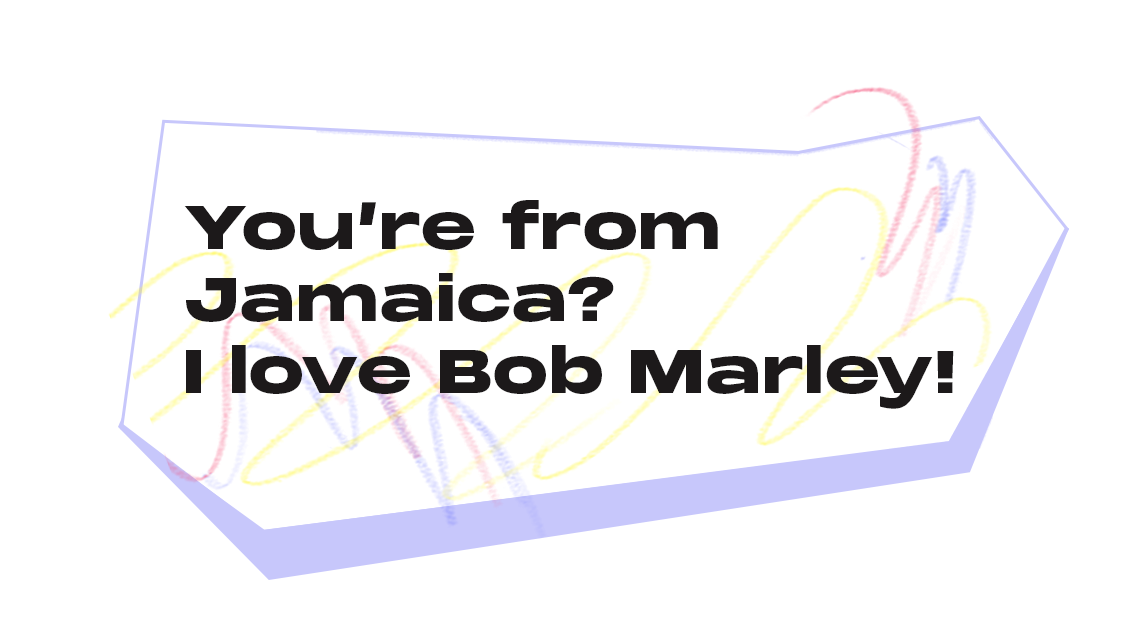
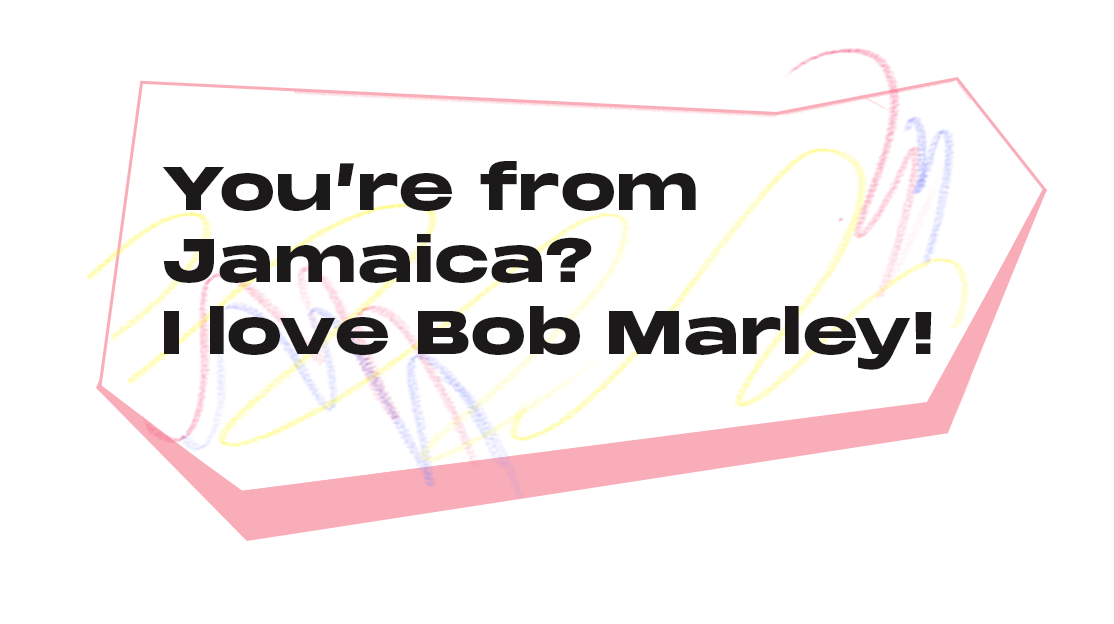
Fix colors and layout

Changed region(s): [[0.061, 0.0609, 0.9461, 0.9135], [0.702, 0.0913, 0.7325, 0.1218], [0.2747, 0.7003, 0.3052, 0.7308]]

diff --git a/src/components/home-page/examples.js b/src/components/home-page/examples.js
@@ -30,7 +30,7 @@ const Examples = () => {
 
   return (
     <div>
-      <article className="examples">
+      <article className="examples bg-pink">
         <motion.img
           className="shard ex__shard1"
           variants={variants}
@@ -119,6 +119,20 @@ const Examples = () => {
               country'.
             </span>
           </p>
+        </div>
+        <div className="divider">
+          <svg
+            className="divider-svg"
+            xmlns="http://www.w3.org/2000/svg"
+            viewBox="0 0 1440 320"
+            preserveAspectRatio="none"
+          >
+            <path
+              className="shape-fill"
+              fillOpacity="1"
+              d="M0,192L480,224L960,64L1440,224L1440,320L960,320L480,320L0,320Z"
+            ></path>
+          </svg>
         </div>
       </article>
     </div>

diff --git a/src/components/home-page/characteristics.js b/src/components/home-page/characteristics.js
@@ -11,10 +11,10 @@ import shard6 from "../../images/characteristics/shard_youareinvisible.png"
 import shard7 from "../../images/characteristics/shard_youarenotanindividual.png"
 import shard8 from "../../images/characteristics/shard_youdontbelong.png"
 
-import shard10 from "../../images/characteristics/shard_jamaica.png"
-import shard20 from "../../images/characteristics/shard_muchodiscounto.png"
+import shard20 from "../../images/characteristics/shard_muchodiscountopng.png"
 import shard30 from "../../images/characteristics/shard_professional.png"
-import shard40 from "../../images/characteristics/shard_whereareyoureallyfrom2.png"
+import shard10 from "../../images/characteristics/shard_whereareyoureallyfrom.png"
+import shard40 from "../../images/characteristics/shard_jamaica.png"
 
 const Characteristics = () => {
   return (

diff --git a/src/components/home-page/tell-us.js b/src/components/home-page/tell-us.js
@@ -17,7 +17,7 @@ const TellUs = () => {
           </h2>
           <CreatePhrase />
         </div>
-        <div className="divider bg-red">
+        <div className="divider">
           <svg
             className="divider-svg"
             xmlns="http://www.w3.org/2000/svg"
@@ -26,8 +26,8 @@ const TellUs = () => {
           >
             <path
               className="shape-fill"
-              fillOpacity="1"
-              d="M0,64L720,192L1440,32L1440,320L720,320L0,320Z"
+              fill-opacity="1"
+              d="M0,192L480,224L960,128L1440,192L1440,320L960,320L480,320L0,320Z"
             ></path>
           </svg>
         </div>

diff --git a/src/components/home-page/disarmed.js b/src/components/home-page/disarmed.js
@@ -50,7 +50,6 @@ const Disarmed = () => {
             <img src={disarm4} alt="green circle" className="shapeImage" />
           </div>
           <div className="container">
-            <img src={img} className="imgDisarmed" alt="disarmed" />
             <p>
               One principle underlying these statements is helping the aggressor
               understand she or he is not under attack for their comment.

diff --git a/src/components/home-page/forms.js b/src/components/home-page/forms.js
@@ -43,7 +43,7 @@ const Forms = () => {
             <path
               className="shape-fill"
               fill-opacity="1"
-              d="M0,96L720,32L1440,160L1440,320L720,320L0,320Z"
+              d="M0,192L480,224L960,128L1440,192L1440,320L960,320L480,320L0,320Z"
             ></path>
           </svg>
         </div>

diff --git a/src/styles/homePageStyles/tell-us-styles.css b/src/styles/homePageStyles/tell-us-styles.css
@@ -25,11 +25,6 @@
   height: 4rem;
   border: 0;
   background-color: #ffffff;
-  border-bottom-left-radius: 41px;
-  border-bottom-right-radius: 41px;
-  border-top-left-radius: 41px;
-  border-top-right-radius: 0;
-  box-shadow: 0 17px 40px 0 rgba(39, 88, 136, 0.07);
   margin: 4rem 0;
   position: relative;
   color: #131314;

diff --git a/src/styles/homePageStyles/examples-styles.css b/src/styles/homePageStyles/examples-styles.css
@@ -1,12 +1,9 @@
 /* SECTION: examples of microagressions? */
+.examples .shape-fill {
+  fill: var(--clr-primary-100);
+}
 
 .examples {
-  padding-bottom: 20%;
-  background: linear-gradient(
-    var(--clr-primary-100),
-    70%,
-    var(--clr-secondary-200) 30%
-  );
   position: relative;
 }
 .shard {

diff --git a/src/components/home-page/difference.js b/src/components/home-page/difference.js
@@ -19,7 +19,7 @@ function FadeInWhenVisible({ children }) {
       ref={ref}
       animate={controls}
       initial="hidden"
-      transition={{ duration: 2 }}
+      transition={{ duration: 1.2 }}
       variants={{
         visible: { opacity: 1, scale: 1 },
         hidden: { opacity: 0, scale: 0 },

diff --git a/src/styles/homePageStyles/disarmed-styles.css b/src/styles/homePageStyles/disarmed-styles.css
@@ -50,7 +50,7 @@
 
 @media only screen and (min-width: 961px) {
   .stackedWrapper2 {
-    height: 1850px;
+    height: 1200px;
   }
 
   .thirdBlob {
